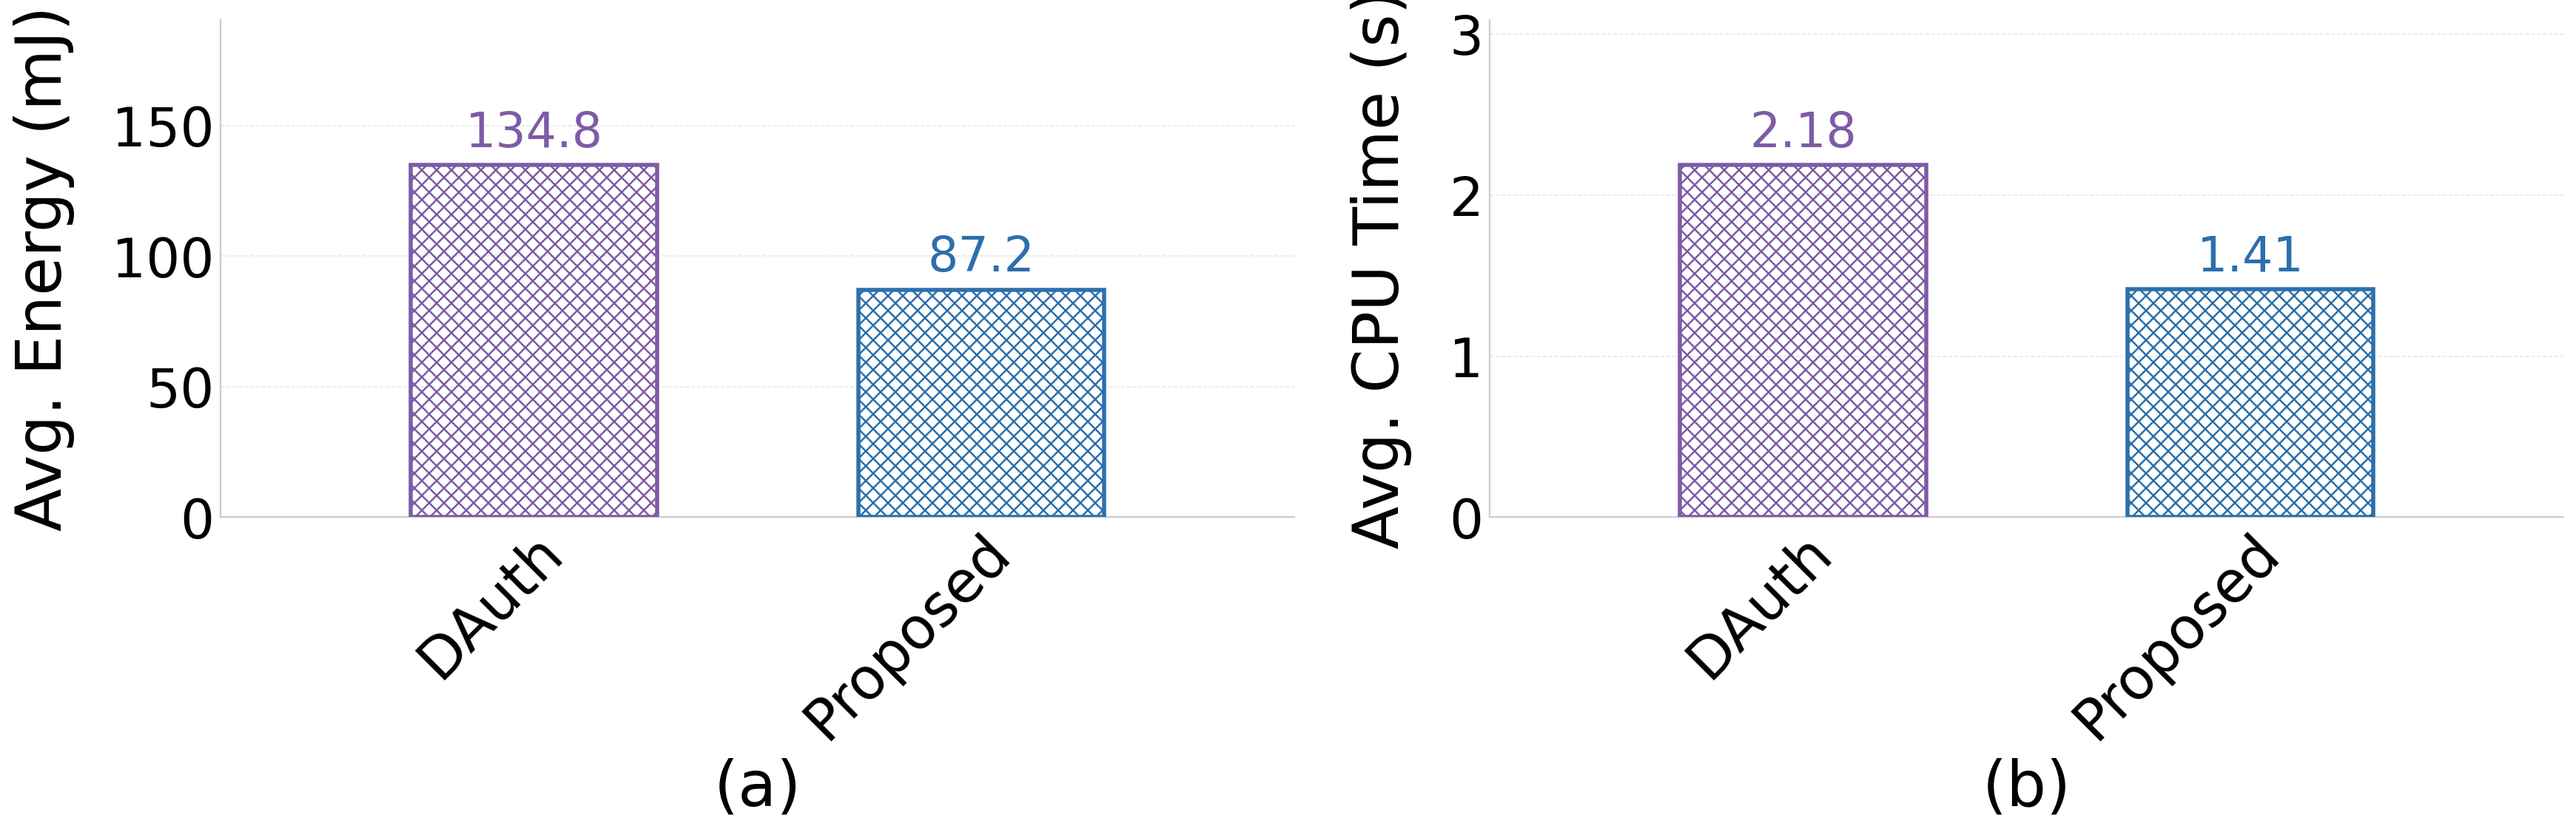
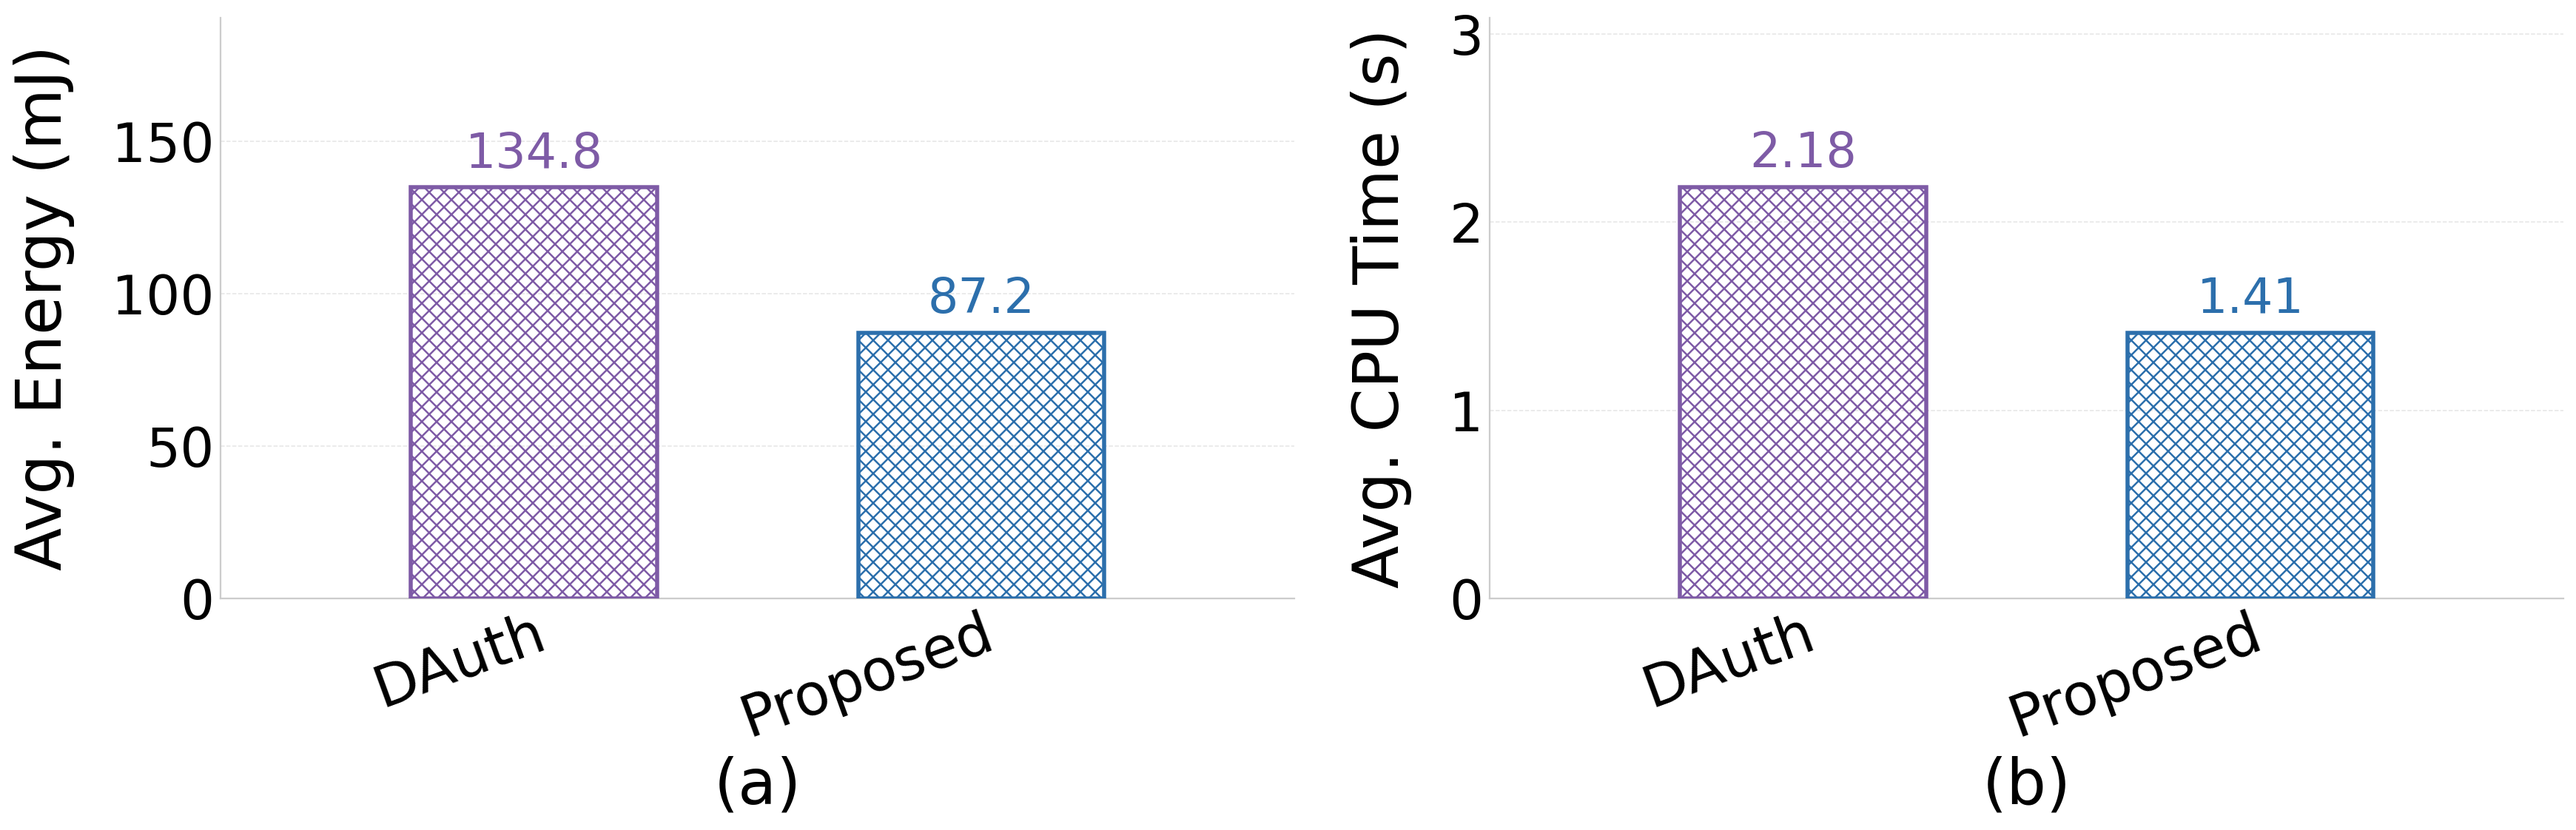
Charts: reduce x-axis label tilt from 45 to 20 deg on figs 5, 8, 10

diff --git a/Hardware/MIRACLE/plot_auth_keyex.py b/Hardware/MIRACLE/plot_auth_keyex.py
@@ -55,7 +55,7 @@ def main():
                    hatch=HATCHES[lab], linewidth=1.8, zorder=3)
             ax.text(i, vals[i] + max(vals) * 0.02, fmt.format(vals[i]),
                     ha="center", va="bottom", fontsize=14, fontweight="normal", color=COLORS[lab])
-        ax.set_xticks(x); ax.set_xticklabels(labels, fontsize=15, rotation=45, ha="right", rotation_mode="anchor")
+        ax.set_xticks(x); ax.set_xticklabels(labels, fontsize=15, rotation=20, ha="right", rotation_mode="anchor")
         ax.set_ylabel(ylabel, fontsize=16, fontweight="normal")
         ax.set_title(title, fontsize=15, fontweight="normal", pad=8)
         ax.yaxis.grid(True, linestyle="--", linewidth=0.6, color="#e5e5e5")

diff --git a/Scripts/Simulation-Runners/plot_desync_bar.py b/Scripts/Simulation-Runners/plot_desync_bar.py
@@ -123,7 +123,7 @@ def draw_panel(ax, stats, ylabel, fmt):
                 color=SCHEME_COLORS[scheme])
 
     ax.set_xticks(range(n_schemes))
-    ax.set_xticklabels(SCHEMES, fontsize=31, rotation=45, ha="right", rotation_mode="anchor")
+    ax.set_xticklabels(SCHEMES, fontsize=31, rotation=20, ha="right", rotation_mode="anchor")
     ax.set_ylabel(ylabel, labelpad=20, fontsize=34, fontweight="normal")
     ax.yaxis.grid(True, linestyle="--", linewidth=0.6, color="#e5e5e5")
     ax.set_axisbelow(True)

diff --git a/Scripts/Simulation-Runners/plot_10seed_comparison.py b/Scripts/Simulation-Runners/plot_10seed_comparison.py
@@ -129,7 +129,7 @@ def draw_panel(ax, stats, ylabel, fmt):
 
     ax.set_xticks(pos)
     ax.set_xticklabels([SCHEME_LABEL[s] for s, _, _ in stats],
-                       fontsize=24, rotation=45, ha="right", rotation_mode="anchor")
+                       fontsize=24, rotation=20, ha="right", rotation_mode="anchor")
     ax.set_ylabel(ylabel, labelpad=20, fontsize=26, fontweight="normal")
     ax.yaxis.grid(True, linestyle="--", linewidth=0.6, color="#e5e5e5")
     ax.set_axisbelow(True)
